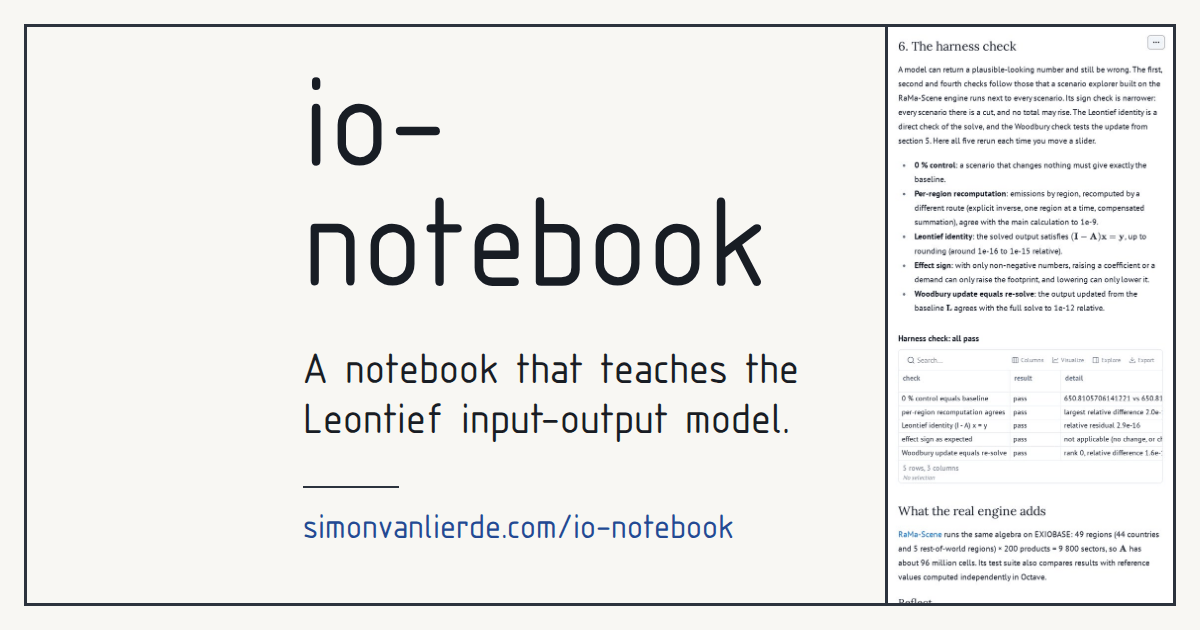
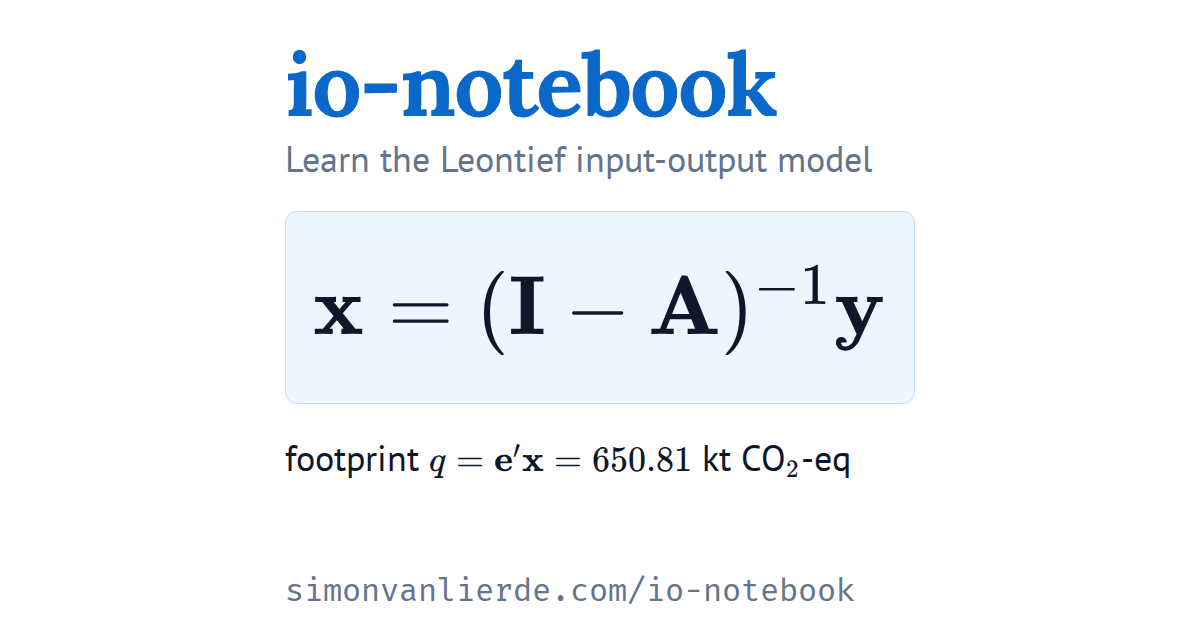
feat: draw the social card from an HTML source
The generated card showed a phone screenshot and no model. The new card
sets the notebook's own equation, x = (I - A)^-1 y, in its page fonts and
colours, with the baseline footprint it prints (650.81 kt CO2-eq).

- add docs/og-card.html and re-render public/og.png from it
- take the figure from make_economy() with footprint(), as the notebook does
- state the equation in og:image:alt
- replace the README generator command with the render command
- delete scripts/og-visual.jpg, which only the old generator used

Not tested: how the card renders in a link preview on a social site.

diff --git a/docs/og-card.html b/docs/og-card.html
@@ -1,0 +1,40 @@
+<!doctype html>
+<html lang="en">
+<head>
+<meta charset="utf-8">
+<title>io-notebook social card</title>
+<!-- Source of public/og.png. Render: see README.md, "Social card". Needs network for the fonts and KaTeX. -->
+<link rel="stylesheet" href="https://fonts.googleapis.com/css2?family=Lora:wght@700&family=PT+Sans:wght@400;700&family=Fira+Mono&display=block">
+<link rel="stylesheet" href="https://cdn.jsdelivr.net/npm/katex@0.16.11/dist/katex.min.css">
+<style>
+  /* The notebook page's own tokens and fonts (marimo's default theme). */
+  :root { --bg: #fff; --fg: #0f172a; --muted: #64748b; --primary: #0880ea; --link: #0b68cb; --accent: #edf6ff; }
+  * { box-sizing: border-box; margin: 0; }
+  html, body { width: 1200px; height: 630px; background: var(--bg); color: var(--fg); overflow: hidden; }
+  /* Everything that carries meaning sits in the centred 630 px column. */
+  main { position: absolute; left: 285px; top: 0; width: 630px; height: 630px; padding-top: 40px; }
+  h1 { font: 700 88px/1 Lora, serif; letter-spacing: -0.02em; color: var(--link); }
+  .job { margin-top: 10px; font: 400 36px/1.15 "PT Sans", sans-serif; color: var(--muted); }
+  .eq { margin-top: 32px; padding: 44px 0; text-align: center; font-size: 84px; line-height: 1.1; white-space: nowrap; background: var(--accent); border: 1px solid #c9def5; border-radius: 12px; }
+  .eq .katex { font-size: 1em; }
+  .fig { margin-top: 32px; font: 400 36px/1.2 "PT Sans", sans-serif; color: var(--fg); }
+  .fig .katex { font-size: 1em; }
+  .url { position: absolute; left: 0; bottom: 24px; font: 400 32px/1 "Fira Mono", monospace; color: var(--muted); }
+</style>
+</head>
+<body>
+<main>
+  <h1>io-notebook</h1>
+  <p class="job">Learn the Leontief input-output model</p>
+  <p class="eq" id="eq">$\mathbf{x} = (\mathbf{I} - \mathbf{A})^{-1}\mathbf{y}$</p>
+  <p class="fig" id="fig">footprint $q = \mathbf{e}'\mathbf{x} = 650.81$ kt CO$_2$-eq</p>
+  <p class="url">simonvanlierde.com/io-notebook</p>
+</main>
+<script src="https://cdn.jsdelivr.net/npm/katex@0.16.11/dist/katex.min.js"></script>
+<script src="https://cdn.jsdelivr.net/npm/katex@0.16.11/dist/contrib/auto-render.min.js"></script>
+<script>
+  renderMathInElement(document.body, { delimiters: [{ left: "$", right: "$", display: false }] });
+  document.fonts.ready.then(() => document.body.setAttribute("data-ready", ""));
+</script>
+</body>
+</html>

diff --git a/head.html b/head.html
@@ -7,5 +7,5 @@
 <meta property="og:image" content="https://simonvanlierde.com/io-notebook/public/og.png">
 <meta property="og:image:width" content="1200">
 <meta property="og:image:height" content="630">
-<meta property="og:image:alt" content="io-notebook: a notebook that teaches the Leontief input-output model. simonvanlierde.com/io-notebook">
+<meta property="og:image:alt" content="io-notebook: learn the Leontief input-output model, x = (I − A)⁻¹ y. A footprint of 650.81 kt CO2-eq. simonvanlierde.com/io-notebook">
 <meta name="twitter:card" content="summary_large_image">

diff --git a/README.md b/README.md
@@ -44,15 +44,15 @@ uv run --with playwright python scripts/check_wasm.py http://127.0.0.1:8000/ dis
 
 ## Social card
 
-[`public/og.png`](public/og.png) is the 1200x630 card shown when the link is shared. It is made with the generator in
-[my site repo](https://github.com/simonvanlierde/simonvanlierde.github.io/tree/main/scripts/social-card)
-(needs Docker). The visual is a screenshot of the live page at phone width, cropped. marimo copies `public/` into the export, and `head.html` holds the tags. From a checkout of
-that repo, with this repo next to it:
+[`public/og.png`](public/og.png) is the 1200x630 card shown when the link is shared. It is rendered from
+[`docs/og-card.html`](docs/og-card.html), which sets the equation in KaTeX and takes its fonts from the
+notebook page's own theme, so rendering needs network access. The figure is the baseline footprint
+the notebook prints for `make_economy()`. marimo copies `public/` into the export, and `head.html` holds the tags.
+With Playwright and Chromium installed:
 
 ```sh
-pnpm gen:card --visual ../io-notebook/scripts/og-visual.jpg --name "io-notebook" \
-  --line "A notebook that teaches the Leontief input-output model." \
-  --domain simonvanlierde.com/io-notebook --out ../io-notebook/public/og.png
+playwright screenshot --browser=chromium --viewport-size=1200,630 --wait-for-timeout=2500 \
+  file://$PWD/docs/og-card.html public/og.png
 ```
 
 ## Deploy
